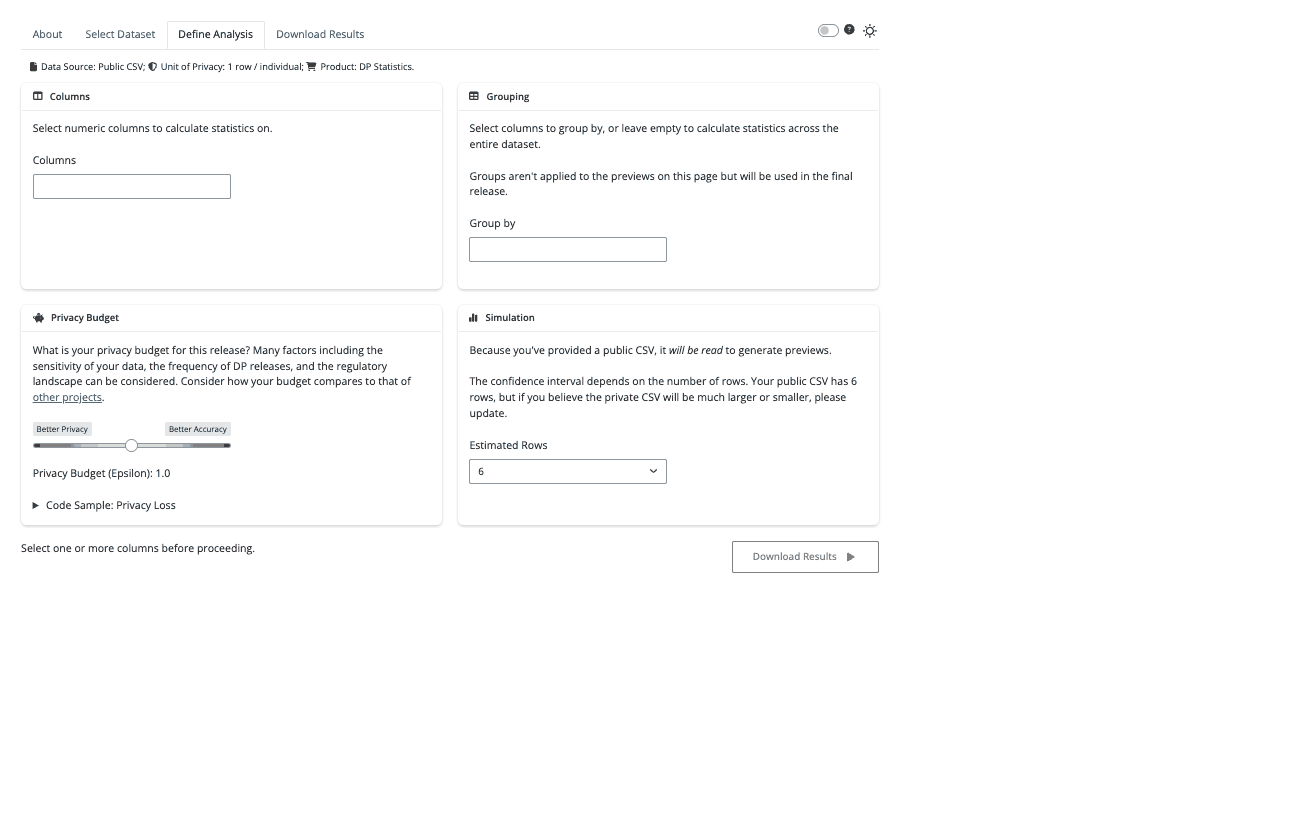
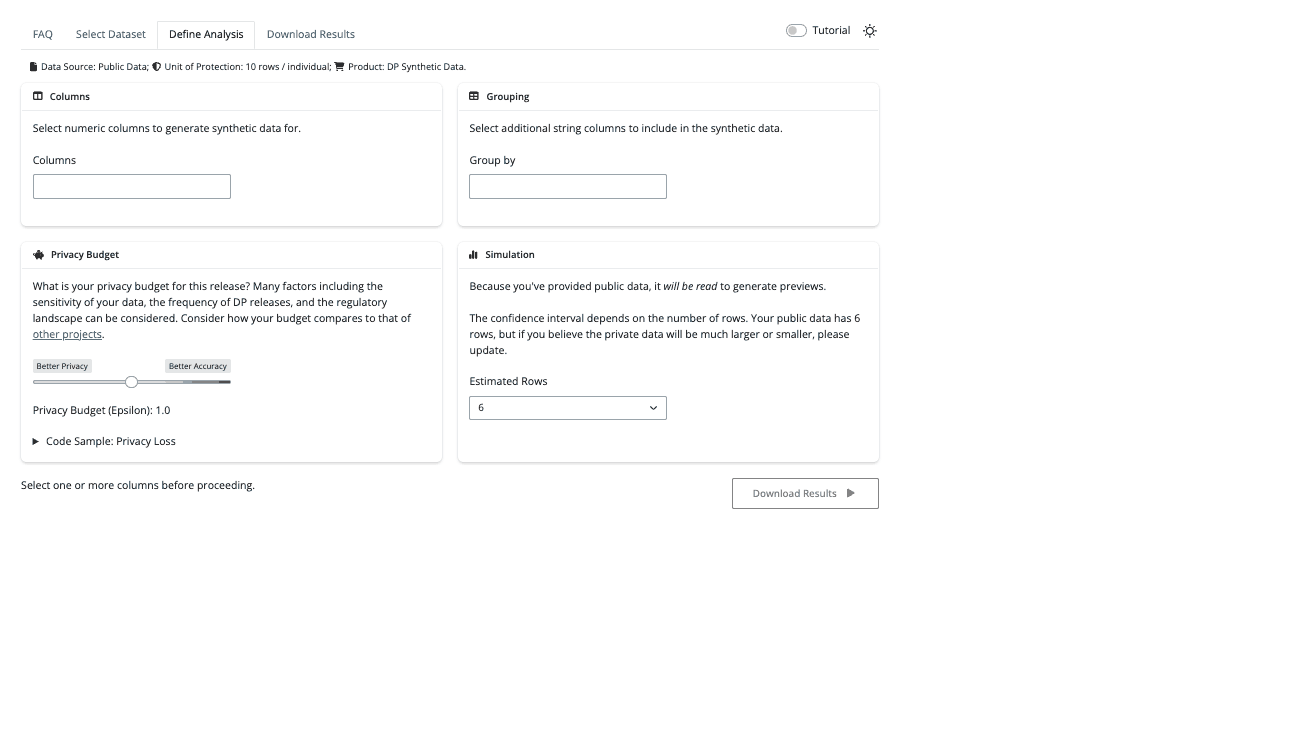
Regen screenshots and add docker to slide (#946)

diff --git a/docs/index.html b/docs/index.html
@@ -645,18 +645,16 @@ class="slide section level2">
 <tr>
 <td>
 <p><strong><a
-href="https://pypi.org/project/dp_wizard/"><code>pip install 'dp_wizard[pins]'</code></a><br><code>dp_wizard --demo</code><br><small>(requires
-Python&gt;=3.10)</small></strong></p>
+href="https://pypi.org/project/dp_wizard/"><code>pip install 'dp_wizard[pins]'</code></a><code>; dp_wizard --demo</code></strong><br><small>(requires
+Python&gt;=3.10)</small></p>
 </td>
 <td>
-<p><strong>… or go to: <a
+<p><strong><code>docker run -p 8000:8000 mccalluc/dp-wizard</code></strong><br><small>(requires
+Docker)</small></p>
+</td>
+<td>
+<p>… or go to: <strong><a
 href="https://mccalluc-dp-wizard.share.connect.posit.cloud/"><code>tinyurl.com/dp-wizard</code></a></strong></p>
-</td>
-</tr>
-</table>
-</td>
-<td>
-<p><img src="images/dp-wizard-cloud-qr-code.png" /></p>
 </td>
 </tr>
 </table>
@@ -681,6 +679,10 @@ href="https://mccalluc-dp-wizard.share.connect.posit.cloud/"><code>tinyurl.com/d
 <li>Leave “Group By” empty.</li>
 <li>Leave “Privacy Budget” at 1, and “Number of Rows” at 100.</li>
 </ul></li>
+</ul>
+</td>
+<td>
+<ul>
 <li>3: On the histogram:
 <ul>
 <li>Change the upper bound to 100.</li>

diff --git a/docs/index.md b/docs/index.md
@@ -388,21 +388,17 @@ Divide into four teams, and on one computer either:
 <tr>
 <td>
 
-**[`pip install 'dp_wizard[pins]'`](https://pypi.org/project/dp_wizard/)<br>`dp_wizard --demo`<br><small>(requires Python>=3.10)</small>**
+**[`pip install 'dp_wizard[pins]'`](https://pypi.org/project/dp_wizard/)`; dp_wizard --demo`**<br><small>(requires Python>=3.10)</small>
 
 </td>
 <td>
 
-**... or go to: [`tinyurl.com/dp-wizard`](https://mccalluc-dp-wizard.share.connect.posit.cloud/)**
-
-</td>
-</tr>
-</table>
+**`docker run -p 8000:8000 mccalluc/dp-wizard`**<br><small>(requires Docker)</small>
 
 </td>
 <td>
 
-![](images/dp-wizard-cloud-qr-code.png)
+... or go to: **[`tinyurl.com/dp-wizard`](https://mccalluc-dp-wizard.share.connect.posit.cloud/)**
 
 </td>
 </tr>
@@ -426,6 +422,10 @@ Then:
     - Select `grade` in "Columns".
     - Leave "Group By" empty.
     - Leave "Privacy Budget" at 1, and "Number of Rows" at 100.
+
+</td>
+<td>
+
 - 3: On the histogram:
     - Change the upper bound to 100.
 
